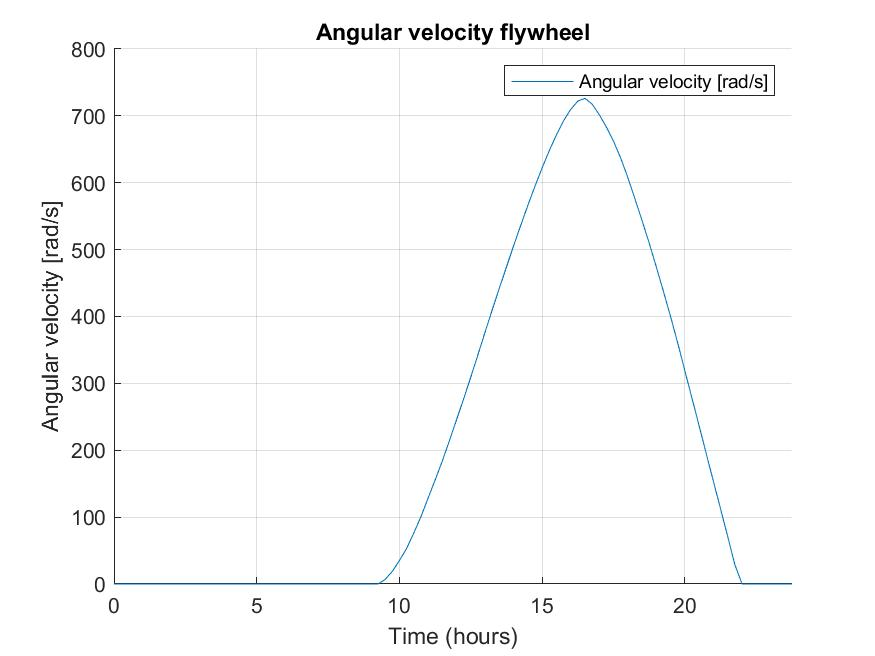
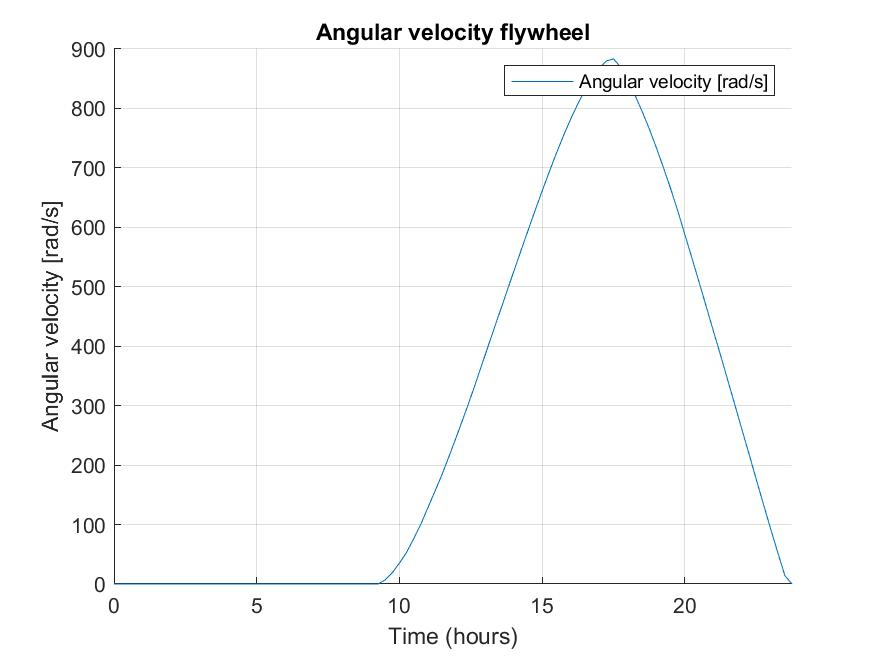
Added: * Vacuum percentage to simulate vacuum around flywheel to lower air drag * Print out of input energy

diff --git a/loadConstants.m b/loadConstants.m
@@ -15,7 +15,7 @@ flywheel_angular = 0;                                                     %Start
 r_flywheel = 0.85;                                                          %Radius of the flywheel
 d_flywheel = 0.40;                                                          %Thickness of the flywheel
 rho_flywheel = 2400;                                                        %Density of the material of which the flywheel is made (Concrete)
-rho_air = 1.2041;                                                           %Density of air
+rho_air = (100 - vacuumPercentage) * 1.2041;                                                           %Density of air
 c_lin = 1.17;                                                               %linear air drag coefficient
 c_ang = 1;                                                                  %angular drag coefficient
 A_sides = 2 * pi * r_flywheel * d_flywheel;

diff --git a/main.m b/main.m
@@ -4,8 +4,12 @@
 clc;
 clear;
 close all;
-loadConstants;
 
+%%
+%Settings
+vacuumPercentage = 99.99;                                                          %Percentage of vacuum percentage [%]
+%%
+loadConstants;                                                              %Load constant from .m file
 %%
 %%%%%%%%%%%%%%%%
 % Calculations %
@@ -89,6 +93,7 @@ losses = sum(table_flywheel(9,:));
 t=table_flywheel(4,:);
 input = sum(t(t>0));
 
+disp(['Total input energy [kWh]: ',num2str(input)])
 disp(['Total loss to air drag [kWh]: ',num2str(sum(table_flywheel(5,:) + table_flywheel(6,:)))])
 disp(['Total loss to bearing friction [kWh]: ',num2str(sum(table_flywheel(7,:)))])
 disp(['Total loss to motor friction [kWh]: ',num2str(sum(table_flywheel(8,:)))])
